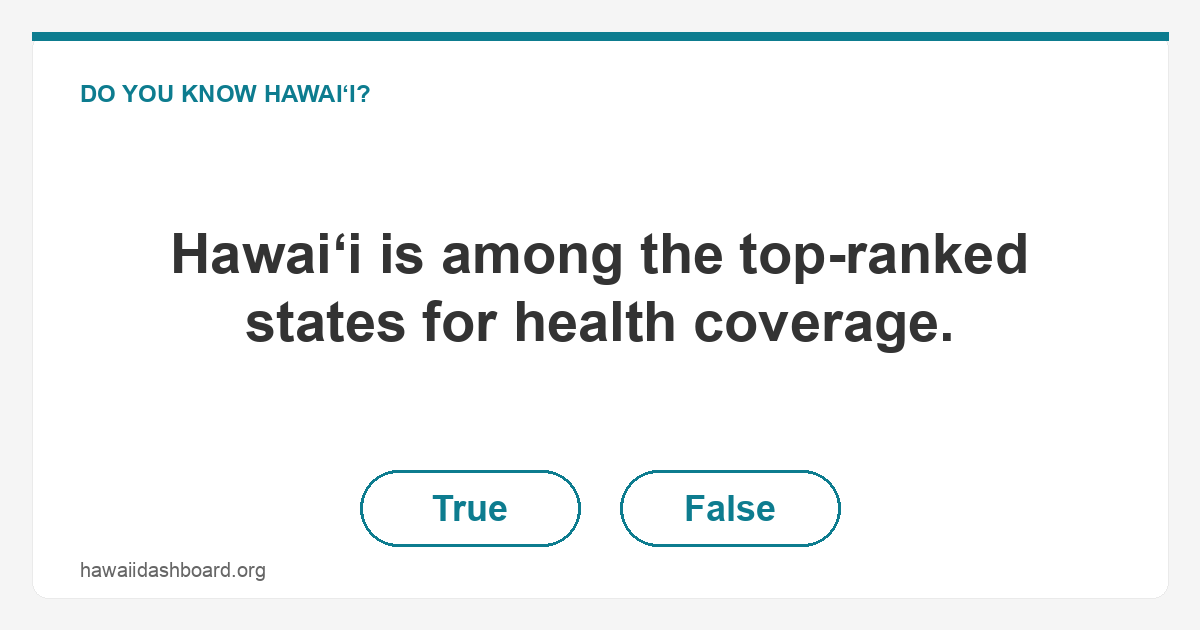
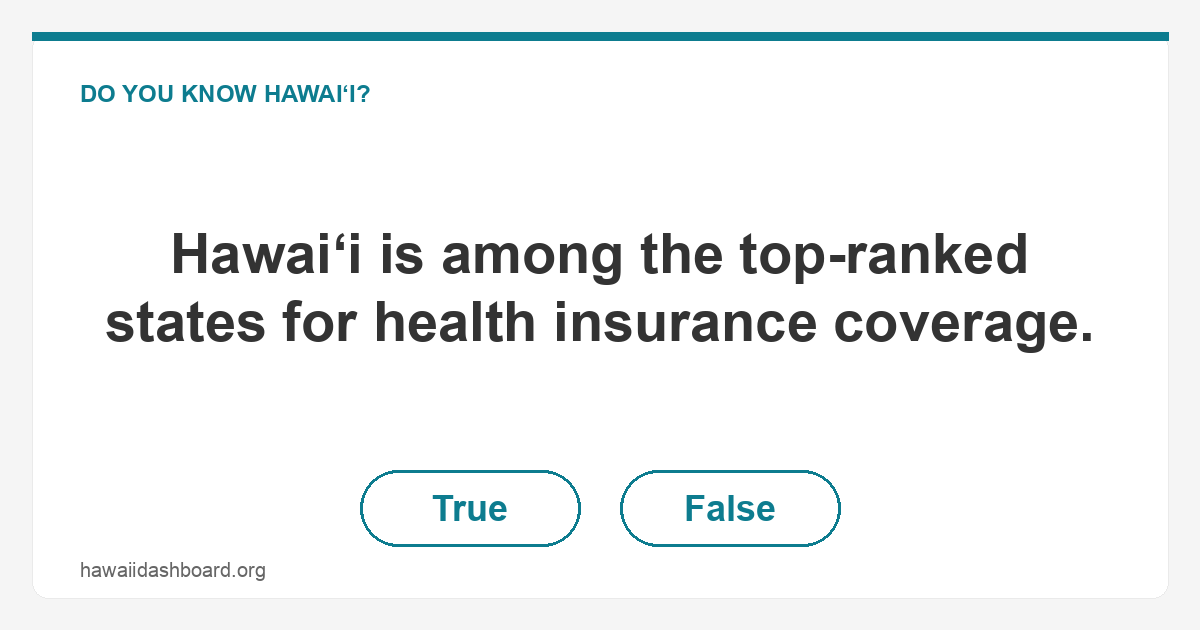
QOTD: close the gap below the header border + rename q002 claim (#14)
- .qotd-teaser margin-top: -1px so the card's border overlaps the
  header's border-bottom. No more gray strip between the two.
- q002 claim: "Hawaiʻi is among the top-ranked states for health
  coverage." → "…health insurance coverage." The chart is uninsured
  rate, so "health insurance coverage" is more precise.
- Regenerated q002's OG PNG and the 57 q/{id}/ redirect pages so
  the shared preview picks up the new claim text.

Changed region(s): [[0.0925, 0.4825, 0.925, 0.573]]

diff --git a/q/q002/index.html b/q/q002/index.html
@@ -13,7 +13,7 @@
   <meta name="twitter:card" content="summary_large_image">
   <meta name="twitter:title" content="Do you know Hawaiʻi?">
   <meta name="twitter:image" content="https://hawaiidashboard.org/assets/og/q/hawaii-is-among-the-top-ranked-states-for-health-coverage.png">
-  <meta name="description" content="Hawaiʻi is among the top-ranked states for health coverage.">
+  <meta name="description" content="Hawaiʻi is among the top-ranked states for health insurance coverage.">
   <link rel="canonical" href="https://hawaiidashboard.org/q/q002/">
   <script>window.location.replace("/?from_q=q002");</script>
   <meta http-equiv="refresh" content="0;url=https://hawaiidashboard.org/?from_q=q002">

diff --git a/css/styles.css b/css/styles.css
@@ -2168,11 +2168,12 @@ body {
 }
 
 /* QOTD homepage teaser — styled as a white card so it pops against the
-   gray page background, consistent with the dashboard's metric cards. */
+   gray page background. Negative top margin pulls it up so the card's
+   border overlaps the header's bottom border (no gray gap between). */
 .qotd-teaser {
     position: relative;
     max-width: 760px;
-    margin: 1.25rem auto 1.5rem;
+    margin: -1px auto 1.5rem;
     padding: 1.5rem 1.75rem;
     background: var(--card-bg);
     border: 1px solid var(--border);

diff --git a/js/questions.js b/js/questions.js
@@ -33,7 +33,7 @@ const QOTD_QUESTIONS = [
   {
     "id": "q002",
     "slug": "hawaii-is-among-the-top-ranked-states-for-health-coverage",
-    "claim": "Hawaiʻi is among the top-ranked states for health coverage.",
+    "claim": "Hawaiʻi is among the top-ranked states for health insurance coverage.",
     "correct": true,
     "answer": "Hawaiʻi ranks #2 of 50 in 2024.",
     "chartUrl": "/r/uninsured_rate/",
